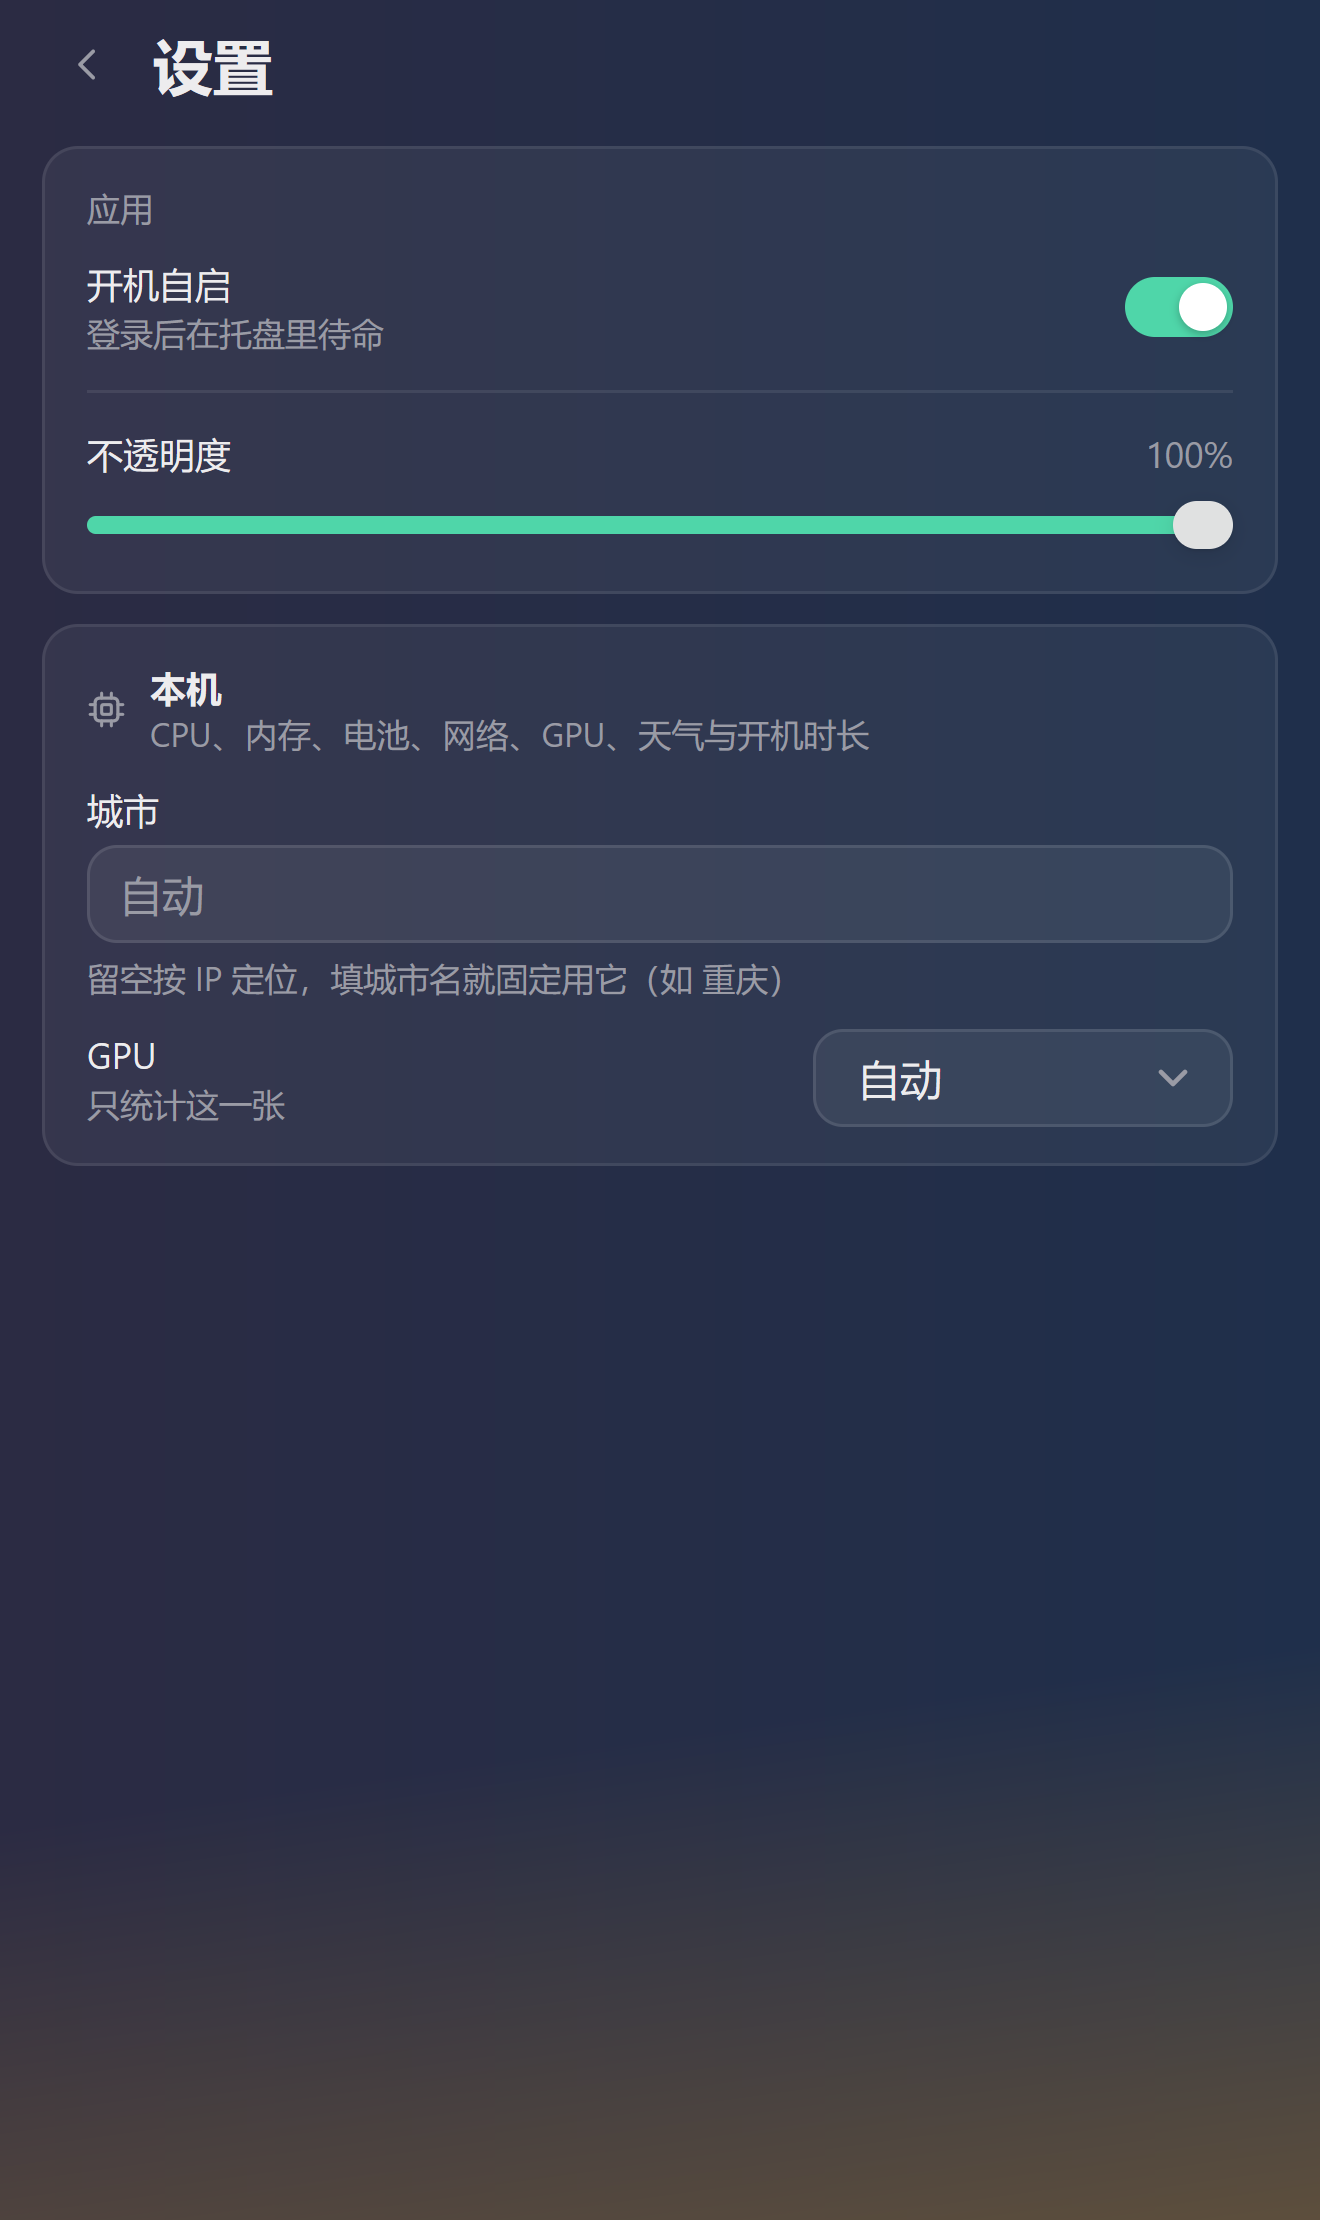
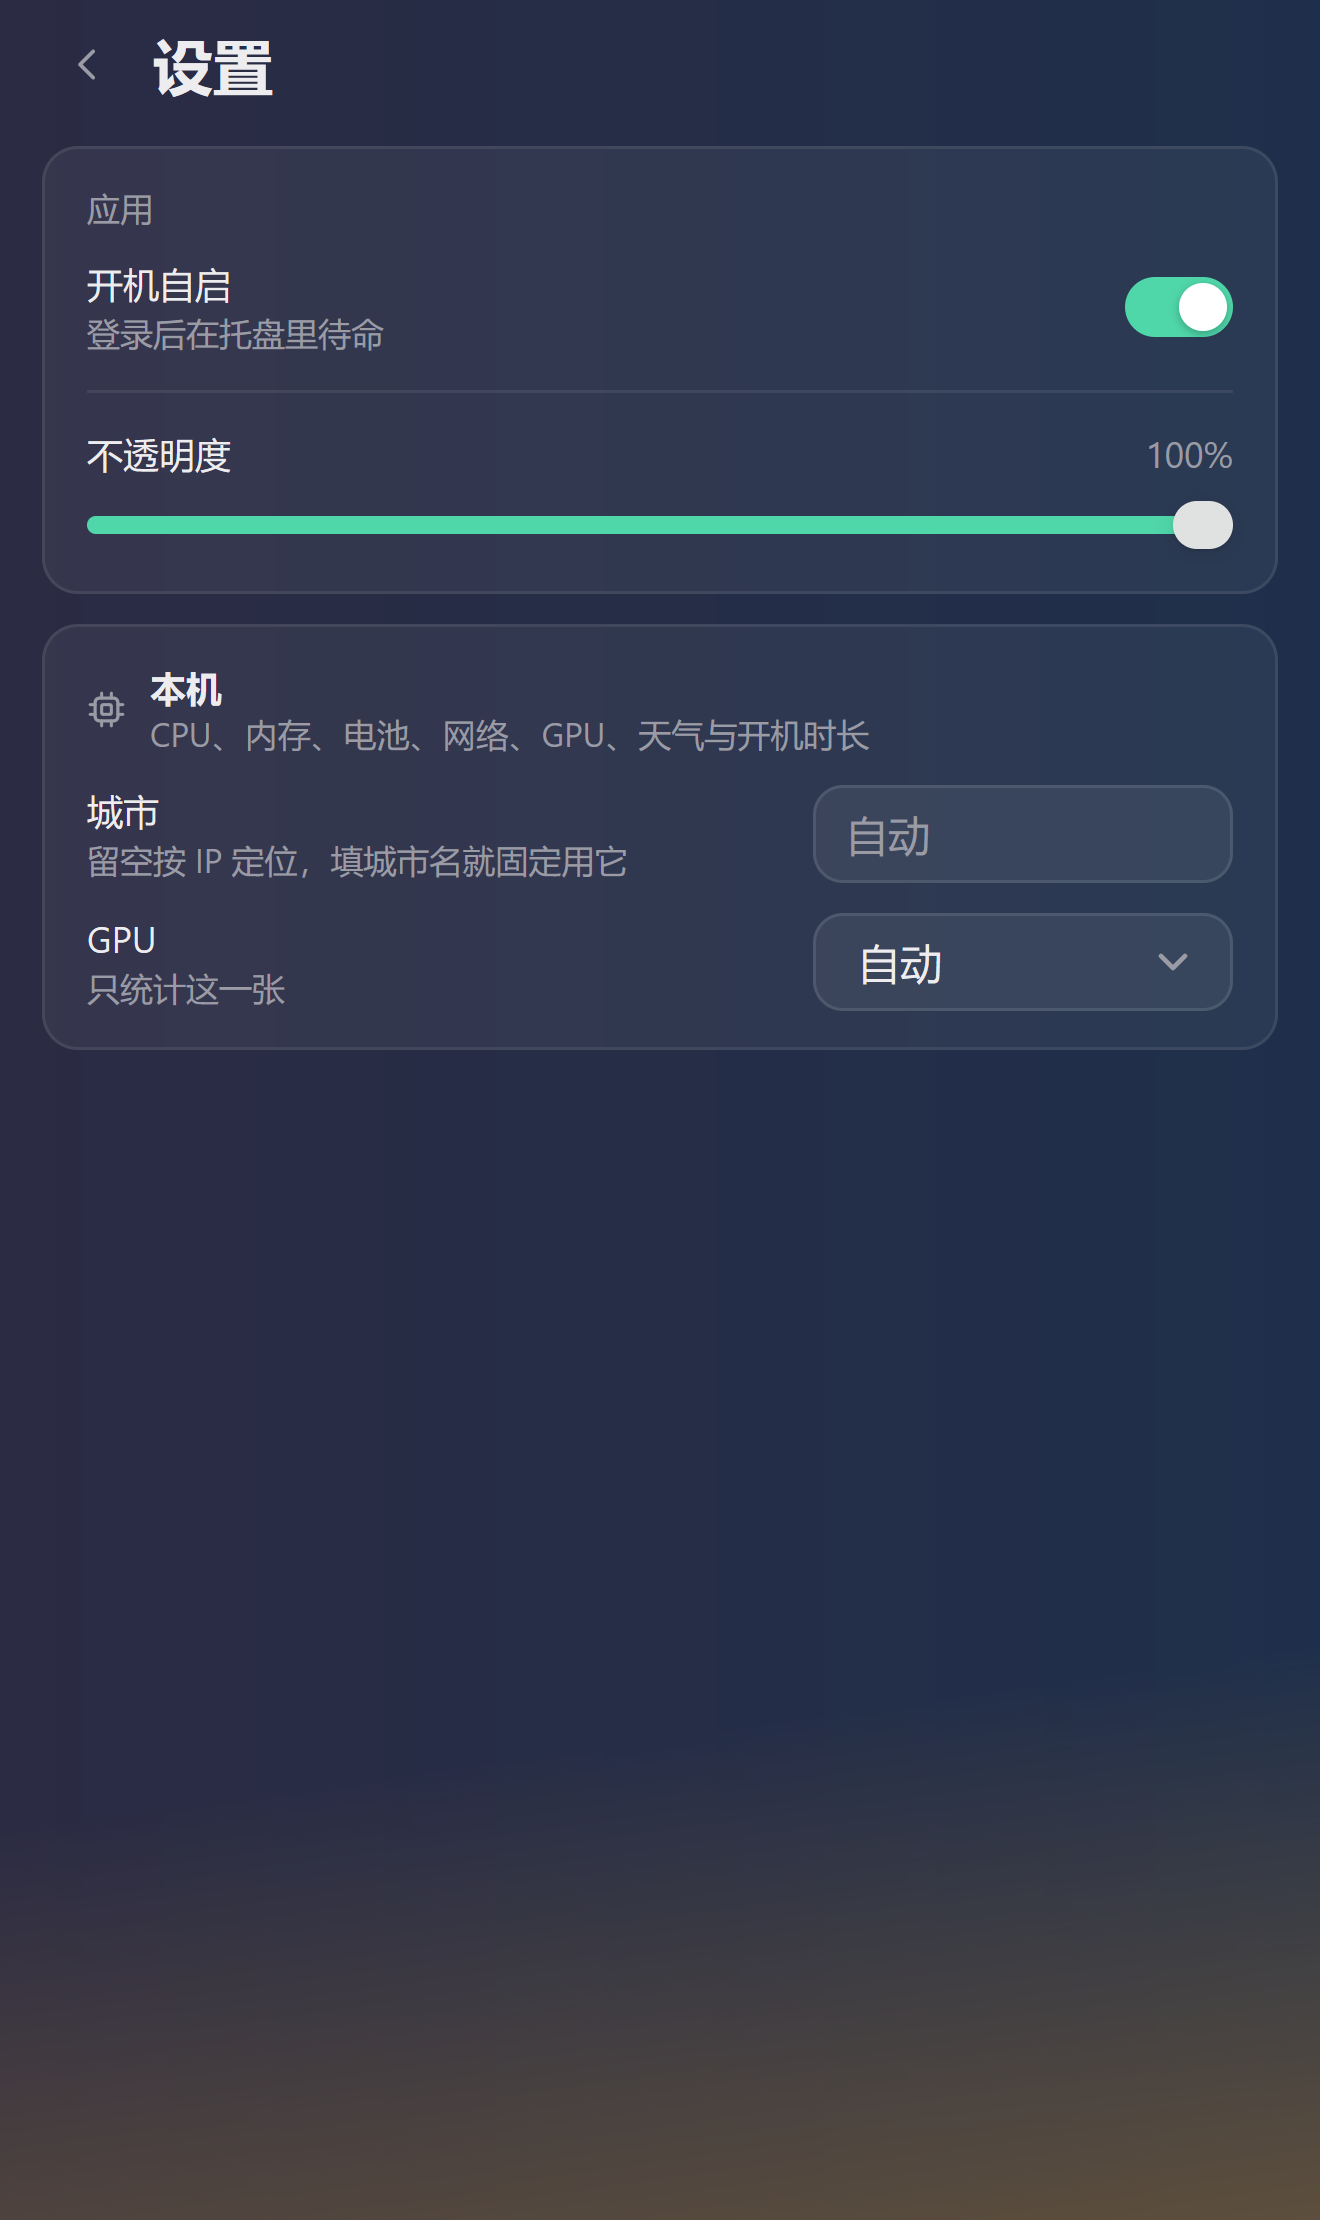
refactor: 设置页要打字的设置和下拉框排在同一列
「城市」原先是标题、横贯整卡片的输入框、说明三行，和下面「GPU」那行是两种排版。
现在走同一个 controlRow：名字和说明在左，输入框在右，宽度取 controlW（和 ui.Select
以 35 个间距单位为下限开出来的 140 一样），两者右边缘对齐。

说明跟着短了一截：「（如 重庆）」删掉。输入框不再占满一行，左半列在 150% 缩放下只剩
230 像素，留着那句会把「重庆」拆到两行里。

换行用 layout_test 的 TestATypedSettingSitsOnItsRow 钉住：按说明那一行的右侧要点得进
输入框、光标落在页面右半边、并且和名字同一行；撤掉修复后它报 x=40。

diff --git a/internal/panel/layout_test.go b/internal/panel/layout_test.go
@@ -120,3 +120,43 @@ func TestTheSettingsPageOnlyOffersSettings(t *testing.T) {
 		}
 	}
 }
+
+// TestATypedSettingSitsOnItsRow checks the city's field is beside its name and
+// note rather than across the whole card: every control on the page ends on the
+// card's inner edge, so a typed setting reads like the choice under it instead
+// of turning the page into two layouts.
+func TestATypedSettingSitsOnItsRow(t *testing.T) {
+	_, p := fixture(t)
+	p.SetSelected(SettingsPage)
+	tt := ui.NewTester(p.View, DesignWidth, DesignHeight)
+
+	name, ok := tt.Find("城市")
+	if !ok {
+		t.Fatalf("the city setting has no name: %v", tt.Texts())
+	}
+	note, ok := tt.Find("留空按 IP 定位，填城市名就固定用它")
+	if !ok {
+		t.Fatalf("the city setting has no note: %v", tt.Texts())
+	}
+
+	// Where the field has to be: on the line the note explains, at the end of
+	// the card's inner edge. Pressing there types into it only if it is there.
+	x := float32(DesignWidth-Gutter-cardPadX) - 30
+	y := (name.Y + note.Y + note.H) / 2
+	tt.ClickAt(x, y)
+	active, _ := tt.TextInputActive()
+	caret, hasCaret := tt.TextCaret()
+	if !active || !hasCaret {
+		t.Fatalf("pressing %.0f,%.0f types into nothing: the field is not on the right of its row",
+			x, y)
+	}
+	if caret.X < DesignWidth/2 {
+		t.Errorf("the field starts at x=%v on the left of the page, not at its end", caret.X)
+	}
+	// The row is the two lines the name and the note take; a field above or
+	// below them is a layout of its own.
+	if caret.Y < name.Y || caret.Y+caret.H > note.Y+note.H {
+		t.Errorf("the field at y=%v..%v is not on the row the name at y=%v..%v and the note at y=%v..%v take",
+			caret.Y, caret.Y+caret.H, name.Y, name.Y+name.H, note.Y, note.Y+note.H)
+	}
+}

diff --git a/internal/panel/settings.go b/internal/panel/settings.go
@@ -165,11 +165,16 @@ func (a *App) settingField(c *ui.Context, p palette, in *app.Instance, def plugi
 			}
 		})
 	default:
-		ui.Column(c).Gap(4).Children(func() {
-			ui.Text(c, def.Label).FontSize(12)
-			value := drafts[def.Key]
+		// A typed setting sits on its row the way a choice does: the name
+		// and the note that explains it on the left, the field on the
+		// right. A field across the whole card would be a column of its
+		// own, and the page would read as two different layouts.
+		value := drafts[def.Key]
+		controlRow(c, p, def.Label, def.Description, func() {
+			// The field is as wide as a choice rather than as wide as the
+			// card: what it holds — a city, a port — is short.
 			field := ui.TextInput(c, &value).Placeholder(def.Placeholder).Label(def.Label).
-				FillWidth()
+				Width(controlW)
 			if value != drafts[def.Key] {
 				a.drafts[in.ID+"/"+def.Key] = value
 				// Numbers are written as they parse; text is written
@@ -181,9 +186,6 @@ func (a *App) settingField(c *ui.Context, p palette, in *app.Instance, def plugi
 			}
 			if field.Submitted() {
 				a.commit(in, def.Key, value)
-			}
-			if def.Description != "" {
-				ui.Text(c, def.Description).FontSize(11).TextColor(p.TextMuted).Wrap()
 			}
 		})
 	}

diff --git a/internal/plugins/system/system.go b/internal/plugins/system/system.go
@@ -25,9 +25,12 @@ func Manifest() plugin.Manifest {
 			// that country's weather, and only the user knows better. Empty
 			// means "ask the address service", which is right for most
 			// machines and needs no setting made.
+			// The note is short because it sits in the column left of the
+			// field: at 150% scaling that column is some 230 pixels across,
+			// and a longer sentence breaks a city name in half.
 			{Key: "city", Label: "城市", Type: plugin.SettingText, Default: "",
 				Placeholder: "自动",
-				Description: "留空按 IP 定位，填城市名就固定用它（如 重庆）"},
+				Description: "留空按 IP 定位，填城市名就固定用它"},
 			// The list is filled in when the page is drawn: which cards a
 			// machine has is not known until it is running.
 			{Key: "gpu", Label: "GPU", Type: plugin.SettingChoice, Default: gpuAuto,

diff --git a/internal/panel/theme.go b/internal/panel/theme.go
@@ -20,6 +20,10 @@ const (
 	// it.
 	cardRadius    = 12
 	controlRadius = 8
+	// controlW is how wide a typed setting's field is: the room a choice
+	// takes (ui.Select opens at 35 units of the theme's spacing, 140 here),
+	// so a field and a drop-down end on the same edge.
+	controlW = 140
 )
 
 // palette is the look the settings page draws with: the dashboard's surfaces in

diff --git a/docs/design.md b/docs/design.md
@@ -266,6 +266,11 @@ powershell 起出来的 `analyze.exe` 会活成孤儿），而是自己 `taskkil
 每次都为每个插件建实例，配置文件只存它们的设置值，不存「跑哪几个」。文件里没有的插件也会
 被建起来：一个旧文件不该让新插件永远不出现。
 
+**每一行都是一行。** 名字和说明在左，控件在右，右边缘一律落在卡片的内边缘上。需要打字的
+设置（「城市」）和下拉框一样宽（`controlW`），不是横贯整卡片的输入框——输入框占满一行会把
+一行拆成三行，页面就成了两种排版。说明因此要短：150% 缩放下左半边只有 230 像素宽，长一句
+会把城市名拆到两行里。
+
 **接收器不靠用户报身份。** 鼠标插件没有设置项，因为它按 collection 找设备：usage page
 `0xFF00` / usage `0x0002` 是谁的都读（`mouse.IsBatteryChannel`），VID 从前是一个要用户
 自己查的十六进制数，现在只是注释里那句「验证过的硬件是 `24AE:185A`」。放宽到所有厂商之后，

diff --git a/CHANGELOG.md b/CHANGELOG.md
@@ -49,6 +49,10 @@
 
 ### 变更
 
+- **要打字的设置和下拉框排在同一列**：「城市」原来是一行标题、一条横贯整卡片的输入框、
+  一行说明；现在和「GPU」那行一样——标题和说明在左，控件在右，右边缘和下拉框对齐。
+  说明跟着短了一截（「留空按 IP 定位，填城市名就固定用它」），因为左边这半列在 150% 缩放下
+  只有 230 像素宽，长一句会把城市名拆到两行里。
 - **头部多了第三个图标按钮，窄屏时不画它**：三颗按钮加天气在 440 DIP（150% 显示器）上正好排开；
   再窄（小屏笔记本、4K@200%）就只留刷新和齿轮这两个每页都要的，Mole 从托盘菜单进——
   一个被挤成 0 宽的图标是谁也点不到的按钮。
